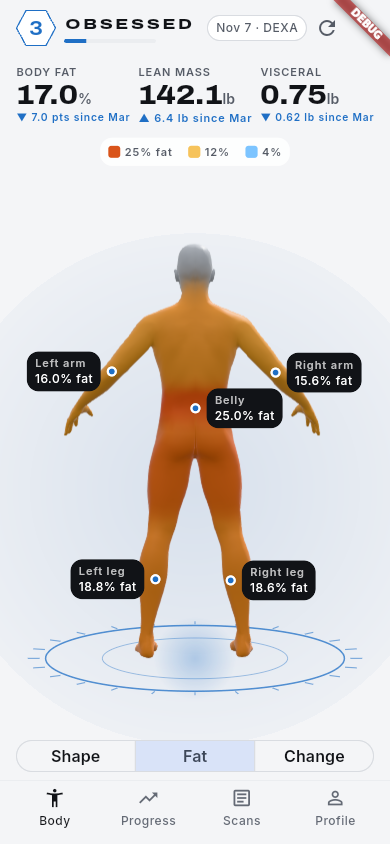
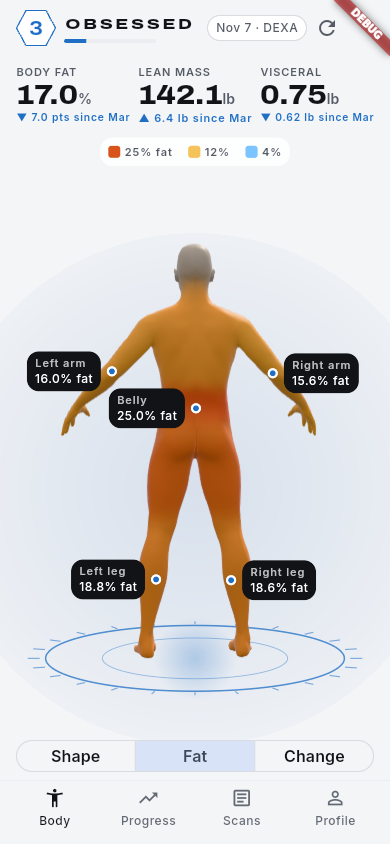
Midnight darkens only the body area; heatmaps keep the body's own colour
- Midnight's dark theme now wraps only the body on Home; the header, tab
  bar and other tabs follow the phone's light/dark setting.
- Parts a heatmap leaves neutral (no change, the head) are drawn in the
  current style's plain body colour instead of a fixed grey, so the body
  keeps its look across Shape, Fat and Change. The renderer reports that
  colour (plainHeatColor) and the mapper takes it as a neutral override.

Claude-Session: https://claude.ai/code/session_01881r6wStWWazdPF3GVtggV

diff --git a/app/test/shell/app_shell_test.dart b/app/test/shell/app_shell_test.dart
@@ -45,7 +45,7 @@ void main() {
   }
 
   for (final brightness in Brightness.values) {
-    testWidgets('Midnight makes the Body tab dark (${brightness.name})', (
+    testWidgets('Midnight darkens only the body area (${brightness.name})', (
       tester,
     ) async {
       tester.platformDispatcher.platformBrightnessTestValue = brightness;
@@ -55,18 +55,20 @@ void main() {
         scans: sampleTimeline,
         bodyStyle: BodyStyle.midnight,
       );
-      Brightness themeOf(Type page) =>
-          Theme.of(tester.element(find.byType(page))).brightness;
-      expect(themeOf(HomePage), Brightness.dark);
+      Brightness themeOf(Finder f) => Theme.of(tester.element(f)).brightness;
+      expect(themeOf(find.byType(BodyView)), Brightness.dark);
+      // The header and tab bar keep the phone's setting.
+      expect(themeOf(find.byKey(const Key('home_refresh'))), brightness);
+      expect(themeOf(find.byKey(const Key('tab_body'))), brightness);
 
-      // Other tabs keep the phone's setting.
+      // Other tabs too.
       await tester.tap(find.byKey(const Key('tab_profile')));
       await tester.pumpAndSettle();
-      expect(themeOf(SettingsPage), brightness);
+      expect(themeOf(find.byType(SettingsPage)), brightness);
     });
   }
 
-  testWidgets('Midnight keeps the Body tab dark in game mode', (tester) async {
+  testWidgets('Midnight keeps the body area dark in game mode', (tester) async {
     final renderer = FakeBodyRenderer();
     await tester.pumpApp(
       user: user,
@@ -76,7 +78,7 @@ void main() {
       renderer: renderer,
     );
     expect(
-      Theme.of(tester.element(find.byType(HomePage))).brightness,
+      Theme.of(tester.element(find.byType(BodyView))).brightness,
       Brightness.dark,
     );
     // The dark hologram look.

diff --git a/app/lib/shell/app_shell.dart b/app/lib/shell/app_shell.dart
@@ -1,32 +1,20 @@
-import 'package:app_body/app_body.dart';
 import 'package:app_ui/app_ui.dart';
 import 'package:body_comp/l10n/l10n.dart';
-import 'package:flutter/services.dart';
-import 'package:flutter_riverpod/flutter_riverpod.dart';
 import 'package:go_router/go_router.dart';
 import 'package:material_ui/material_ui.dart';
 
 /// The signed-in app: one tab per branch of the router's shell route, with
 /// the tab bar from the launch design (Body, Progress, Scans, Profile).
 /// Each tab keeps its own navigation stack.
-///
-/// With the Midnight body style, the Body tab (page and tab bar) is dark,
-/// like the website, whatever the phone's light/dark setting, in game mode
-/// too.
-class AppShell extends ConsumerWidget {
+class AppShell extends StatelessWidget {
   const new(this.shell, {super.key});
 
   final StatefulNavigationShell shell;
 
   @override
-  Widget build(BuildContext context, WidgetRef ref) {
+  Widget build(BuildContext context) {
     final l10n = context.l10n;
-    final midnight =
-        shell.currentIndex == 0 &&
-        // The picked style, not the drawn one: in game mode Midnight puts
-        // the hologram on the dark screen.
-        ref.watch(bodyStyleSettingProvider) == BodyStyle.midnight;
-    final scaffold = Scaffold(
+    return Scaffold(
       body: shell,
       bottomNavigationBar: _TabBar(
         current: shell.currentIndex,
@@ -52,11 +40,6 @@ class AppShell extends ConsumerWidget {
           ),
         ],
       ),
-    );
-    if (!midnight) return scaffold;
-    return AnnotatedRegion<SystemUiOverlayStyle>(
-      value: SystemUiOverlayStyle.light,
-      child: Theme(data: AppTheme.dark, child: scaffold),
     );
   }
 }

diff --git a/packages/app_body/lib/src/presentation/body_view.dart b/packages/app_body/lib/src/presentation/body_view.dart
@@ -173,7 +173,13 @@ class _BodyViewState extends ConsumerState<BodyView>
       metric == null
           ? null
           : mapper
-                .colorsFor(shapes.pair.from, shapes.pair.to, metric, t: view.t)
+                .colorsFor(
+                  shapes.pair.from,
+                  shapes.pair.to,
+                  metric,
+                  t: view.t,
+                  neutral: r.plainHeatColor,
+                )
                 .bake(mapper.asset),
     );
   }
@@ -182,6 +188,8 @@ class _BodyViewState extends ConsumerState<BodyView>
   void didChangeDependencies() {
     super.didChangeDependencies();
     _renderer?.setBrightness(Theme.of(context).brightness);
+    // The neutral heatmap color follows the look.
+    _pushColors(ref.read(bodyViewControllerProvider));
   }
 
   @override
@@ -205,6 +213,7 @@ class _BodyViewState extends ConsumerState<BodyView>
       })
       ..listen(bodyStyleProvider, (prev, s) {
         _renderer?.setStyle(s);
+        _pushColors(ref.read(bodyViewControllerProvider));
         // Leaving game mode: face front again after the turntable.
         if (prev == BodyStyle.hologram && s != BodyStyle.hologram) {
           setState(() => _pose = (azimuth: 0, zoom: _pose.zoom));
@@ -305,7 +314,11 @@ class _BodyViewState extends ConsumerState<BodyView>
             ),
             child: _Legend(
               metric: metric,
-              stops: mapper.legend(metric, pair.to.sex),
+              stops: mapper.legend(
+                metric,
+                pair.to.sex,
+                neutral: _renderer?.plainHeatColor,
+              ),
               from: pair.from,
               to: pair.to,
             ),

diff --git a/packages/body_mapping/lib/src/body_mapper.dart b/packages/body_mapping/lib/src/body_mapper.dart
@@ -38,10 +38,18 @@ abstract interface class BodyMapper {
 
   /// Heatmap colors for scan [a] to scan [b]. For [HeatMetric.fatPct], [t]
   /// interpolates between the two scans; change metrics ignore it.
-  RegionColors colorsFor(BodyScan a, BodyScan b, HeatMetric metric, {double t});
+  /// [neutral] replaces the palette's neutral (no change, and the head), so
+  /// those parts can look like the plain body.
+  RegionColors colorsFor(
+    BodyScan a,
+    BodyScan b,
+    HeatMetric metric, {
+    double t,
+    Rgb? neutral,
+  });
 
-  /// The legend stops for [metric].
-  List<RampStop> legend(HeatMetric metric, Sex sex);
+  /// The legend stops for [metric], with [neutral] as in [colorsFor].
+  List<RampStop> legend(HeatMetric metric, Sex sex, {Rgb? neutral});
 }
 
 /// The DEXA mapping from the 3D body pipeline LLD: masked global fat and
@@ -283,7 +291,9 @@ class DexaBodyMapper implements BodyMapper {
     BodyScan b,
     HeatMetric metric, {
     double t = 1,
+    Rgb? neutral,
   }) {
+    final palette = this.palette.withNeutral(neutral);
     final ramp = palette.ramp(metric, b.sex);
     final deadband = ShapeReference.forSex(b.sex).deadband;
 
@@ -317,6 +327,6 @@ class DexaBodyMapper implements BodyMapper {
   }
 
   @override
-  List<RampStop> legend(HeatMetric metric, Sex sex) =>
-      palette.ramp(metric, sex).stops;
+  List<RampStop> legend(HeatMetric metric, Sex sex, {Rgb? neutral}) =>
+      palette.withNeutral(neutral).ramp(metric, sex).stops;
 }

diff --git a/app/lib/home/home_page.dart b/app/lib/home/home_page.dart
@@ -92,6 +92,9 @@ class _HomePageState extends ConsumerState<HomePage> {
       null => null,
     };
     final empty = scans.hasValue && summary == null && !scans.hasError;
+    // The picked style, not the drawn one: in game mode Midnight puts the
+    // hologram on the dark screen.
+    final midnight = ref.watch(bodyStyleSettingProvider) == BodyStyle.midnight;
 
     return Scaffold(
       body: SafeArea(
@@ -111,9 +114,13 @@ class _HomePageState extends ConsumerState<HomePage> {
             Expanded(
               child: empty
                   ? const _EmptyState()
-                  : const Padding(
-                      padding: EdgeInsets.only(top: AppSpacing.sm),
-                      child: BodyView(),
+                  : Padding(
+                      padding: const EdgeInsets.only(top: AppSpacing.sm),
+                      // Midnight darkens only the body area, like the
+                      // website; the bars follow the phone's setting.
+                      child: midnight
+                          ? Theme(data: AppTheme.dark, child: const BodyView())
+                          : const BodyView(),
                     ),
             ),
           ],

diff --git a/packages/body_mapping/test/src/heatmap_test.dart b/packages/body_mapping/test/src/heatmap_test.dart
@@ -17,6 +17,22 @@ void main() {
     expect(gain.regions[BodyRegion.trunk], palette.regress);
   });
 
+  test('a neutral override colors no-change parts, the head and legend', () {
+    const plain = Rgb(0.1, 0.2, 0.3);
+    final c = mapper.colorsFor(a, a, HeatMetric.leanChange, neutral: plain);
+    expect(c.regions[BodyRegion.leftLeg], plain);
+    expect(c.head, plain);
+    expect(
+      mapper.legend(HeatMetric.leanChange, a.sex, neutral: plain)[1].color,
+      plain,
+    );
+    // Fat % colors are untouched.
+    expect(
+      mapper.colorsFor(a, b, HeatMetric.fatPct, neutral: plain).regions,
+      mapper.colorsFor(a, b, HeatMetric.fatPct).regions,
+    );
+  });
+
   test('lean gain is drawn as progress', () {
     final more = withRegion(
       a,

diff --git a/packages/body_mapping/lib/src/heatmap.dart b/packages/body_mapping/lib/src/heatmap.dart
@@ -106,6 +106,22 @@ class HeatPalette {
     regress: Rgb.hex(0xE8822A),
   );
 
+  /// This palette with [neutral] in place of its own, if given.
+  HeatPalette withNeutral(Rgb? neutral) => neutral == null
+      ? this
+      : HeatPalette(
+          low: low,
+          mid: mid,
+          high: high,
+          progress: progress,
+          neutral: neutral,
+          regress: regress,
+          maleFatPctStops: maleFatPctStops,
+          femaleFatPctStops: femaleFatPctStops,
+          fatChangeRange: fatChangeRange,
+          leanChangeRange: leanChangeRange,
+        );
+
   /// Sequential fat % colors, low to high.
   final Rgb low;
   final Rgb mid;

diff --git a/packages/app_body/lib/src/data/flutter_scene_body_renderer.dart b/packages/app_body/lib/src/data/flutter_scene_body_renderer.dart
@@ -147,6 +147,20 @@ class FlutterSceneBodyRenderer implements BodyRenderer {
   }
 
   @override
+  Rgb get plainHeatColor {
+    // Vertex colors multiply the heatmap material, so divide the plain
+    // look's color (glow included) by it.
+    final plain = _Look.of(_style, _brightness, heat: false);
+    final heat = _Look.of(_style, _brightness, heat: true).baseColor;
+    double c(int i) =>
+        ((plain.baseColor[i] + (plain.emissive?[i] ?? 0)) / heat[i]).clamp(
+          0,
+          1,
+        );
+    return Rgb(c(0), c(1), c(2));
+  }
+
+  @override
   void setStyle(BodyStyle style) {
     _style = style;
     _applyStyle();

diff --git a/packages/app_body/lib/src/domain/body_renderer.dart b/packages/app_body/lib/src/domain/body_renderer.dart
@@ -55,6 +55,11 @@ abstract interface class BodyRenderer {
   /// Prepares GPU resources for [asset]. Call once before anything else.
   Future<void> load(BodyAsset asset);
 
+  /// The heatmap color that draws like the plain body in the current
+  /// style and brightness, for the parts a heatmap leaves neutral (no
+  /// change, the head), so they keep the style's look.
+  Rgb get plainHeatColor;
+
   /// The A and B end shapes. The renderer blends between them with `setT`.
   void setShapes(BodyGeometry a, BodyGeometry b);
 

diff --git a/app/test/helpers/fake_body_renderer.dart b/app/test/helpers/fake_body_renderer.dart
@@ -35,6 +35,9 @@ class FakeBodyRenderer implements BodyRenderer {
   void setStyle(BodyStyle style) => this.style = style;
 
   @override
+  Rgb get plainHeatColor => const Rgb(0.7, 0.7, 0.7);
+
+  @override
   void setBrightness(Brightness brightness) => this.brightness = brightness;
 
   @override

diff --git a/packages/app_body/test/src/fake_body_renderer.dart b/packages/app_body/test/src/fake_body_renderer.dart
@@ -35,6 +35,9 @@ class FakeBodyRenderer implements BodyRenderer {
   void setStyle(BodyStyle style) => this.style = style;
 
   @override
+  Rgb get plainHeatColor => const Rgb(0.7, 0.7, 0.7);
+
+  @override
   void setBrightness(Brightness brightness) => this.brightness = brightness;
 
   @override
